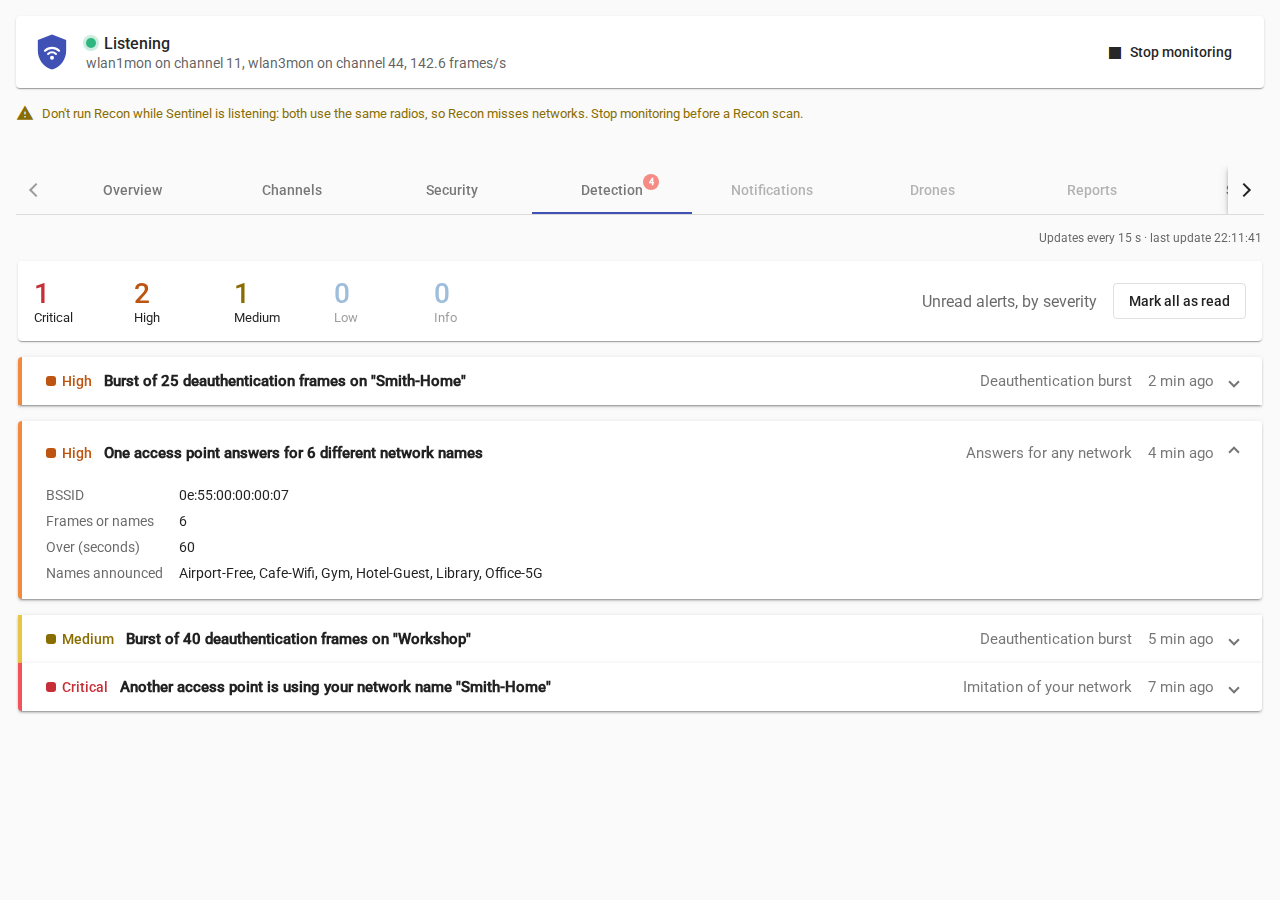
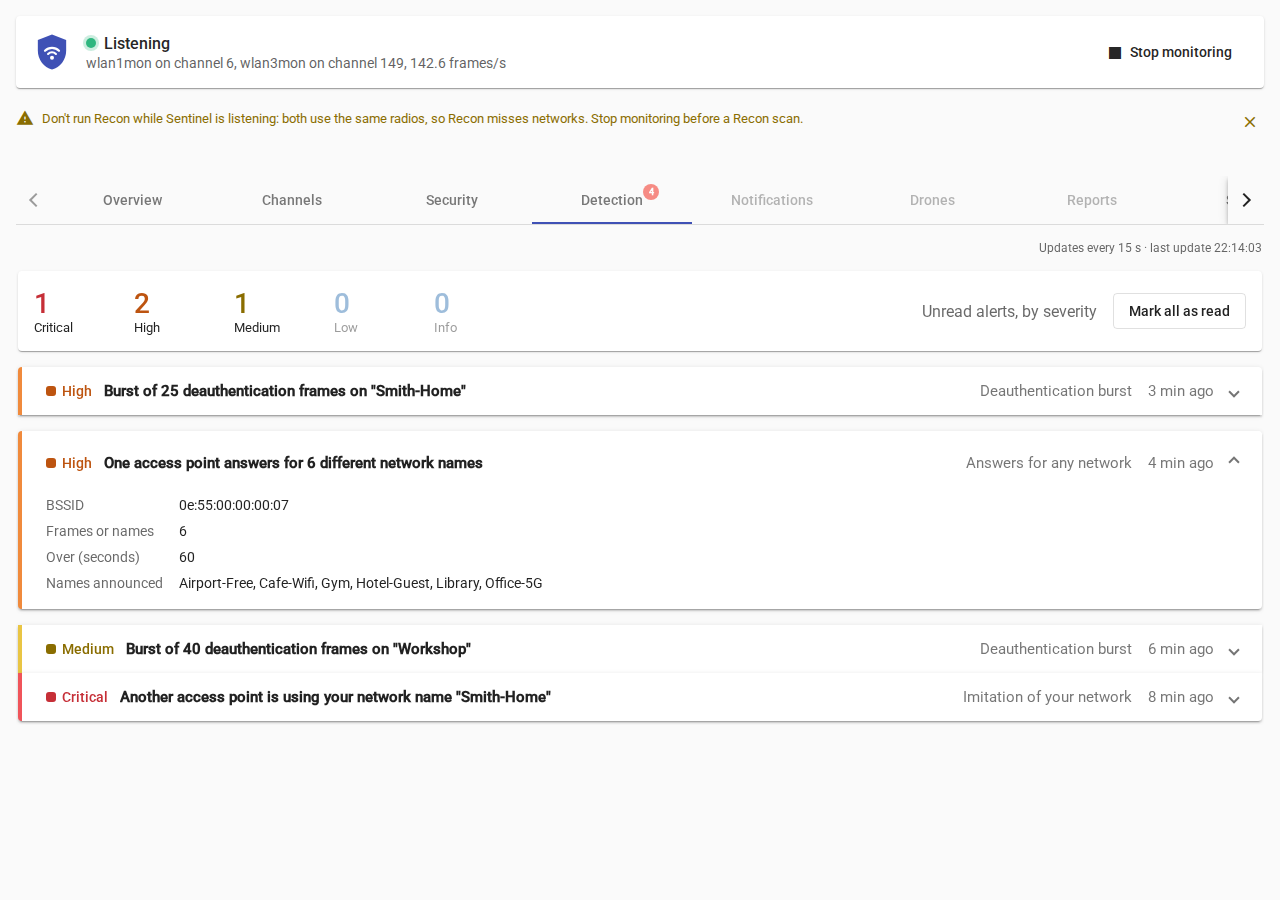
Sentinel 0.8.2
An X to close the Recon warning.

Claude-Session: https://claude.ai/code/session_01Dyty2cSvxpgAPnk7cKjyN4

diff --git a/projects/Sentinel/src/lib/components/Sentinel.component.ts b/projects/Sentinel/src/lib/components/Sentinel.component.ts
@@ -24,6 +24,7 @@ export class SentinelComponent implements OnInit, AfterViewInit, OnDestroy {
     failures = 0;
     tabIndex = 0;
     dark = false;
+    reconHidden = readFlag(RECON_NOTE_KEY);
     private timer: any;
 
     readonly tabs: Tab[] = [
@@ -152,7 +153,13 @@ export class SentinelComponent implements OnInit, AfterViewInit, OnDestroy {
      * takes out of managed mode): a Recon scan then misses networks (audit 3.2, tested in 0.8.0).
      */
     get sharesRecon(): boolean {
-        return this.state === 'on';
+        return this.state === 'on' && !this.reconHidden;
+    }
+
+    /** The user has read the Recon warning: hide it in this browser. */
+    hideReconNote(): void {
+        this.reconHidden = true;
+        writeFlag(RECON_NOTE_KEY);
     }
 
     get stateLabel(): string {
@@ -193,6 +200,17 @@ export class SentinelComponent implements OnInit, AfterViewInit, OnDestroy {
     get canStart(): boolean {
         return !!this.status && !!this.status.dependencies && this.status.dependencies.sqlite;
     }
+}
+
+const RECON_NOTE_KEY = 'sentinel.reconNoteHidden';
+
+/** A flag kept in this browser. Storage can be blocked: then the note simply shows again. */
+function readFlag(key: string): boolean {
+    try { return window.localStorage.getItem(key) === '1'; } catch (e) { return false; }
+}
+
+function writeFlag(key: string): void {
+    try { window.localStorage.setItem(key, '1'); } catch (e) { /* not kept, nothing else to do */ }
 }
 
 /** Relative luminance (0 dark .. 1 light) of a CSS rgb()/rgba() colour. */

diff --git a/projects/Sentinel/src/lib/components/Sentinel.component.html b/projects/Sentinel/src/lib/components/Sentinel.component.html
@@ -50,6 +50,10 @@
         <mat-icon>warning</mat-icon>
         <span>Don't run Recon while Sentinel is listening: both use the same radios, so Recon misses networks.
         Stop monitoring before a Recon scan.</span>
+        <button mat-icon-button class="note-close" (click)="hideReconNote()"
+                aria-label="Hide this warning" title="Hide this warning">
+            <mat-icon>close</mat-icon>
+        </button>
     </p>
     <p class="clock-note" *ngIf="clockDrift">
         The Pineapple's clock is {{ clockDrift }} this computer's (no Internet to set it).

diff --git a/projects/Sentinel/src/lib/components/Sentinel.component.css b/projects/Sentinel/src/lib/components/Sentinel.component.css
@@ -170,6 +170,24 @@
     height: 18px;
 }
 
+.recon-note span {
+    flex: 1 1 auto;
+}
+
+.recon-note .note-close {
+    flex: none;
+    width: 28px;
+    height: 28px;
+    line-height: 28px;
+    color: inherit;
+}
+
+.recon-note .note-close mat-icon {
+    font-size: 18px;
+    width: 18px;
+    height: 18px;
+}
+
 .clock-note {
     margin: 0 0 12px;
     font-size: 12px;

diff --git a/README.md b/README.md
@@ -102,7 +102,7 @@ After that, leave it running. Alerts show up in **Detection**, with a counter on
 - While it's running, Sentinel turns off `wlan3` (the MK7AC in normal mode) so the 5 GHz radio can change channel.
   Stopping, rebooting or uninstalling brings it back.
 - **Don't run Recon while Sentinel is listening.** Both use the same radios (the built-in one and the MK7AC), so Recon
-  misses networks. Stop monitoring before a Recon scan, then start it again. The main page reminds you.
+  misses networks. Stop monitoring before a Recon scan, then start it again. The main page reminds you (click the X once you've read it).
 - In Canada, channels 120 to 128 are blocked for weather radar. The module skips them, that's normal.
 - The Pineapple has no battery for its clock, so its time drifts after a reboot. Sentinel shows times based on the
   Pineapple's own clock so "5 min ago" stays right.

diff --git a/README.fr.md b/README.fr.md
@@ -84,7 +84,7 @@ Après ça, laisse-le tourner. Les alertes s'affichent dans **Detection**, avec 
   canal. L'arrêter, redémarrer ou désinstaller le remet.
 - **Ne lance pas Recon pendant que Sentinel écoute.** Les deux utilisent les mêmes radios (celle du Pineapple et le
   MK7AC), donc Recon rate des réseaux. Arrête l'écoute avant un scan Recon, puis relance-la. La page principale te le
-  rappelle.
+  rappelle (clique sur le X une fois lu).
 - Au Canada, les canaux 120 à 128 sont réservés aux radars météo. Le module les saute, c'est normal.
 - Le Pineapple n'a pas de pile pour son horloge, donc l'heure dérive après un redémarrage. Sentinel calcule les
   durées avec l'horloge du Pineapple pour que « il y a 5 min » reste juste.

diff --git a/CHANGELOG.md b/CHANGELOG.md
@@ -1,5 +1,9 @@
 # Changelog
 
+## 0.8.2
+- The Recon warning on the main page has an **X** to close it. It stays hidden in that browser (it shows again in
+  another browser, or if the browser's site data is cleared).
+
 ## 0.8.1
 - **Recon.** Tested on the device: while Sentinel listens, a Recon scan misses networks, because Sentinel holds both
   radios (`wlan1mon`, and the MK7AC it takes out of managed mode). Nothing crashes, but they can't share. The main
